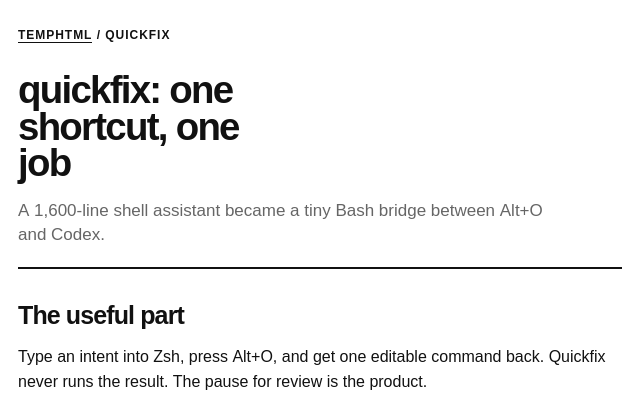
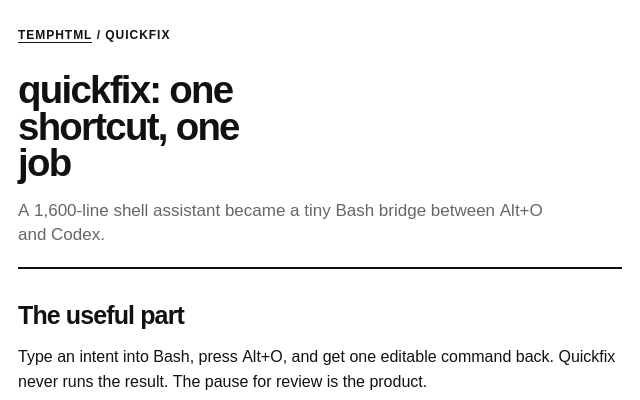
Make quickfix write-up Bash-first

Changed region(s): [[0.2188, 0.87, 0.9688, 0.93]]

diff --git a/misc-htmls/quickfix.html b/misc-htmls/quickfix.html
@@ -18,10 +18,10 @@
 
     <article>
       <h2>The useful part</h2>
-      <p>Type an intent into Zsh, press Alt+O, and get one editable command back. Quickfix never runs the result. The pause for review is the product.</p>
+      <p>Type an intent into Bash, press Alt+O, and get one editable command back. Quickfix never runs the result. The pause for review is the product.</p>
 
       <div class="flow" aria-label="quickfix command flow">
-        <div><strong>intent</strong><span>plain text in the Zsh buffer</span></div>
+        <div><strong>intent</strong><span>plain text in the Bash buffer</span></div>
         <div><strong>Alt+O</strong><span>one explicit keyboard action</span></div>
         <div><strong>quickfix</strong><span>small Bash prompt wrapper</span></div>
         <div><strong>Codex</strong><span>Luna with low reasoning</span></div>
@@ -31,7 +31,7 @@
       <h2>What was deleted</h2>
       <p>Cmdsmith had ask, explain, model discovery, diagnostics, JSON output, clipboard integration, provider profiles, a direct HTTP client, packaging, and a Python dependency stack. None of that improved Alt+O, so none of it survived.</p>
 
-      <p>The runtime is now 49 lines of Bash. The Zsh widget is 32. Installation and tests are plain shell too. There is no config file, cache, database, model registry, SDK, or package manager.</p>
+      <p>The runtime is 49 lines of Bash and its default Readline widget is 24. The optional Zsh widget is 32. Installation and tests are plain shell too. There is no config file, cache, database, model registry, SDK, or package manager.</p>
 
       <h2>Why Codex owns the hard part</h2>
       <p><code>codex exec</code> already provides non-interactive output and reuses the saved Codex CLI login. That means a ChatGPT subscription can authenticate quickfix without another credential store or home-grown API client.</p>
@@ -43,13 +43,13 @@
       </div>
 
       <h2>The whole interface</h2>
-      <p>Run <code>codex login</code>, run <code>./install</code>, restart Zsh, and press Alt+O. Set <code>QUICKFIX_MODEL</code> or <code>QUICKFIX_REASONING</code> only when the defaults need changing.</p>
+      <p>Run <code>codex login</code>, run <code>./install</code>, restart Bash, and press Alt+O. Zsh remains available through <code>./install zsh</code>. Set <code>QUICKFIX_MODEL</code> or <code>QUICKFIX_REASONING</code> only when the defaults need changing.</p>
 
       <p>Source and tests live in <a href="https://github.com/jackmhny/quickfix">jackmhny/quickfix</a>. Codex authentication and non-interactive behavior are documented in the official <a href="https://learn.chatgpt.com/docs/auth">authentication</a> and <a href="https://learn.chatgpt.com/docs/non-interactive-mode">non-interactive mode</a> references.</p>
     </article>
 
     <footer class="page-footer">
-      quickfix · Bash + Zsh · MIT
+      quickfix · Bash · optional Zsh · MIT
     </footer>
   </main>
 </body>
